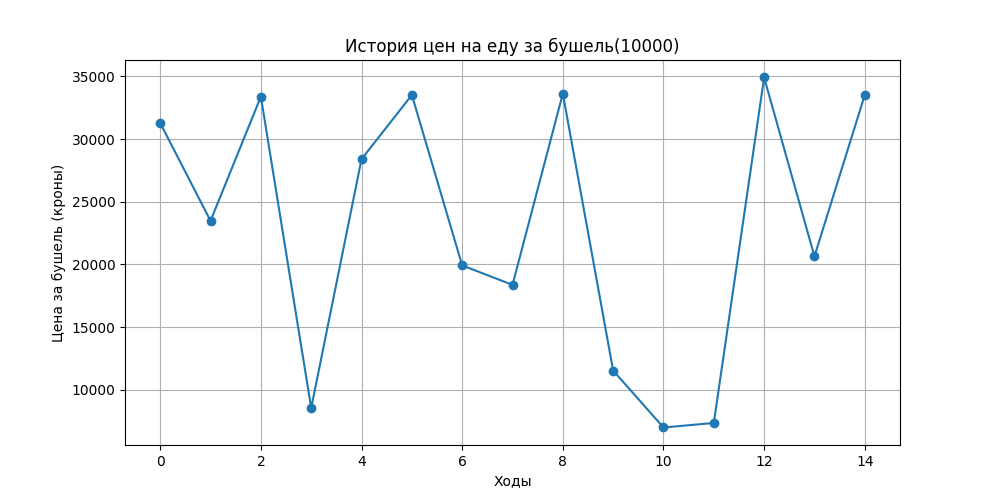
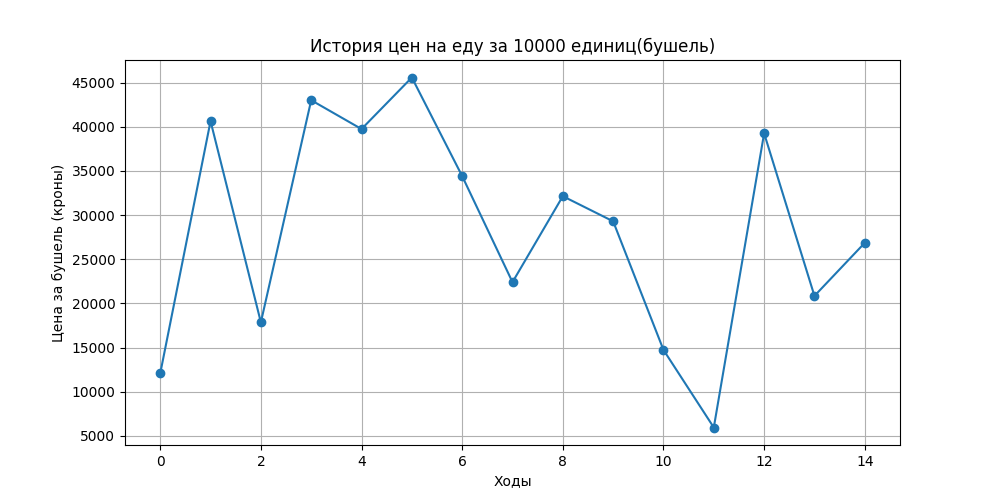
Добавили описание

diff --git a/economic.py b/economic.py
@@ -260,7 +260,7 @@ class Faction:
 
     def generate_food_price(self):
         """Генерация случайной цены на еду"""
-        self.current_food_price = random.randint(5000, 35000)
+        self.current_food_price = random.randint(3000, 47000)
         self.food_price_history.append(self.current_food_price)
 
         # Ограничение длины истории цен до 15 элементов
@@ -271,7 +271,7 @@ class Faction:
 
     def trade_food(self, action):
         """Торговля едой"""
-        if action == 'buy': # Преобразование бушелей в еду
+        if action == 'buy':  # Преобразование бушелей в еду
             self.money -= self.current_food_price
             self.food += 10000  # Прямое добавление еды
         elif action == 'sell':  # Преобразование бушелей в еду
@@ -282,7 +282,7 @@ class Faction:
         """Генерация графика цен на еду"""
         plt.figure(figsize=(10, 5))
         plt.plot(self.food_price_history, marker='o')
-        plt.title('История цен на еду за бушель(10000)')
+        plt.title('История цен на еду за 10000 единиц(бушель)')
         plt.xlabel('Ходы')
         plt.ylabel('Цена за бушель (кроны)')
         plt.grid()
@@ -339,7 +339,9 @@ def open_build_popup(faction):
         f"Доход от налогов: {faction.taxes_info}\n"
         f"Потребление еды: {faction.food_peoples}\n"
         f"Количество больниц: {faction.hospitals}\n"
-        f"Количество фабрик: {faction.factories}"
+        f"Количество фабрик: {faction.factories}\n"
+        f"1 больница дает(за ход): 500 рабочих и требует 100 крон\n"
+        f"1 фабрика дает(за ход): может прокормить 1000 населения, но требует 200 рабочих"
     )
 
     stats_text_box = TextInput(text=stats_info, readonly=True, size_hint=(1, None), height=200)
